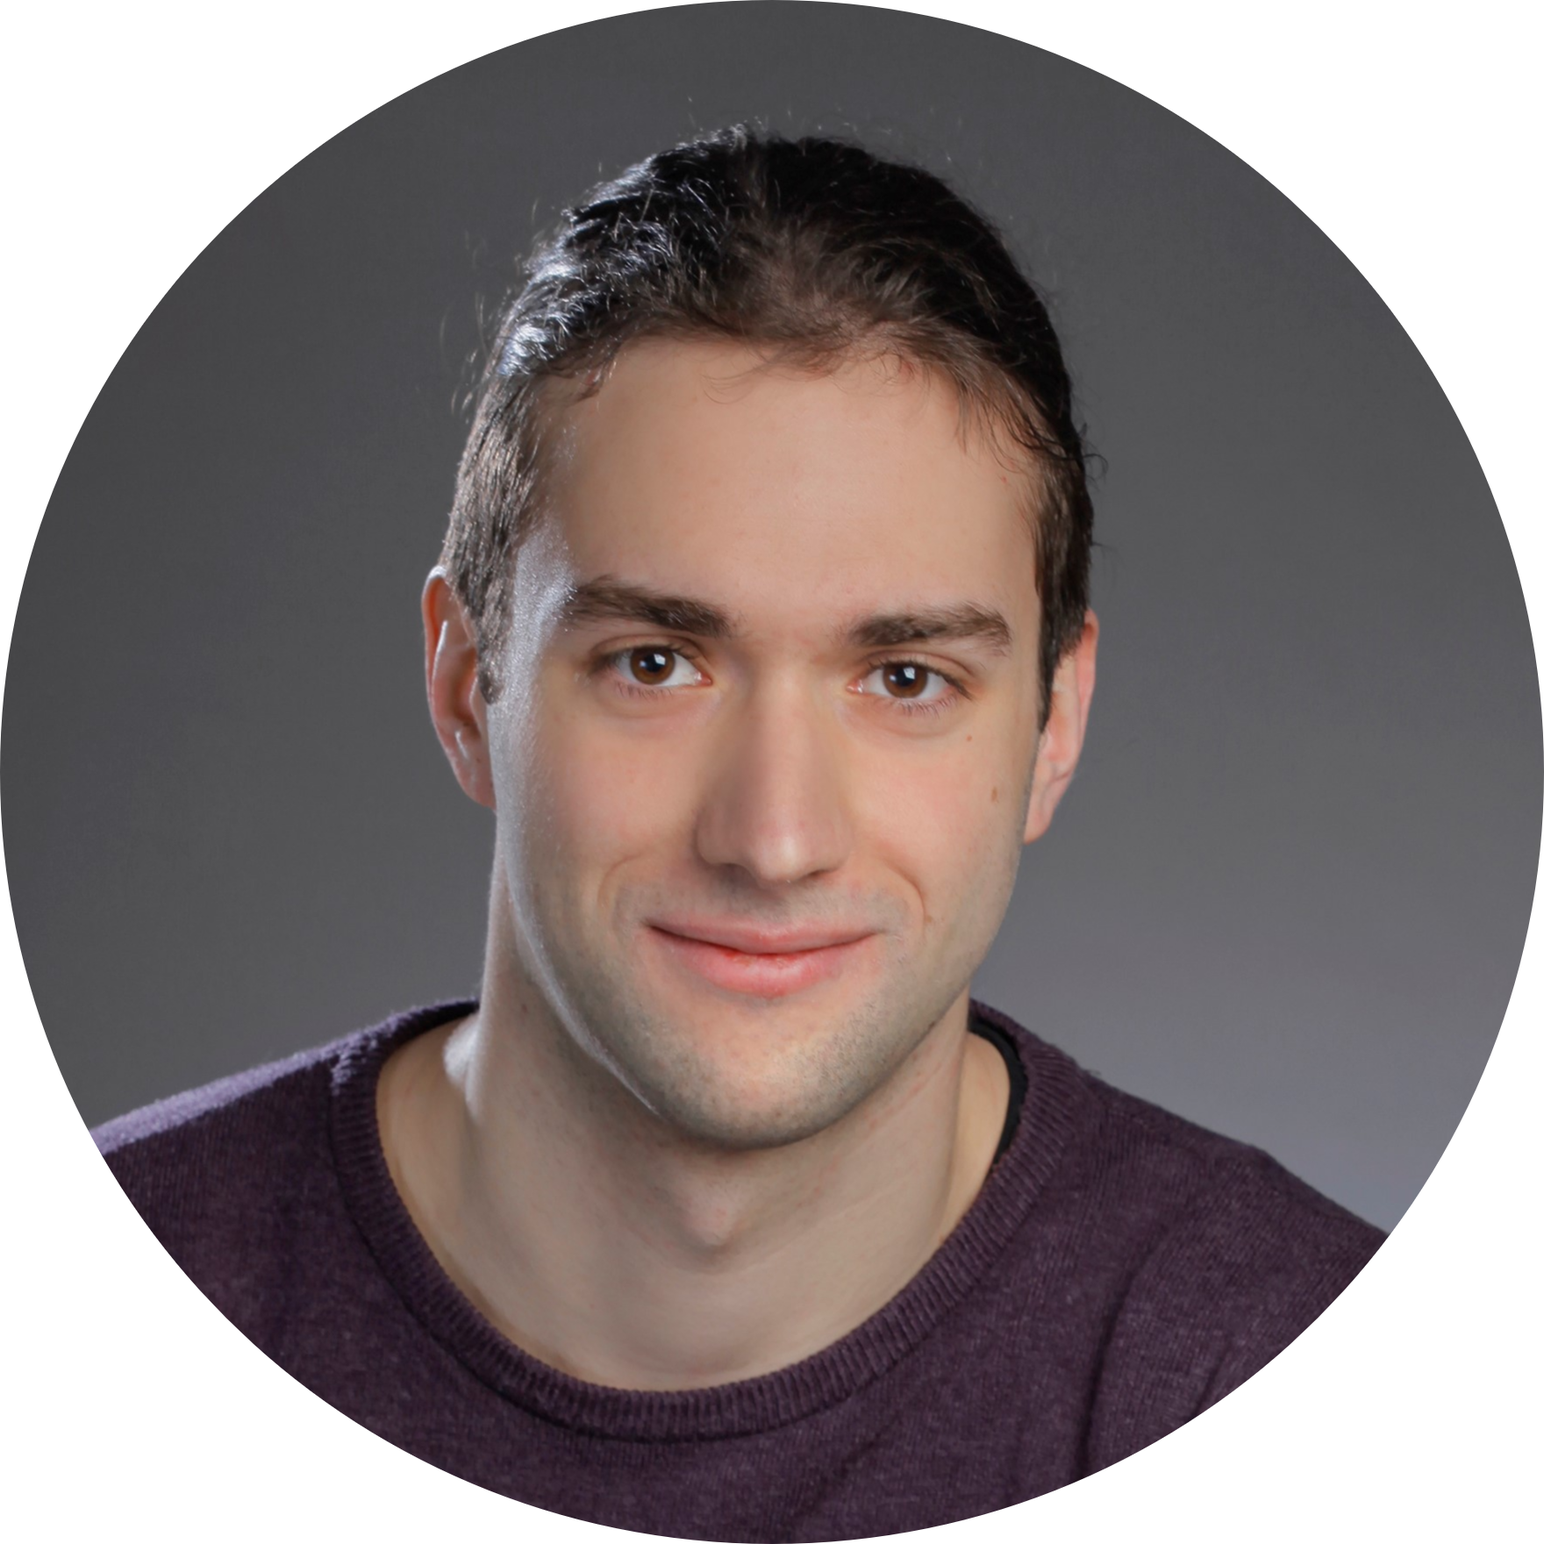
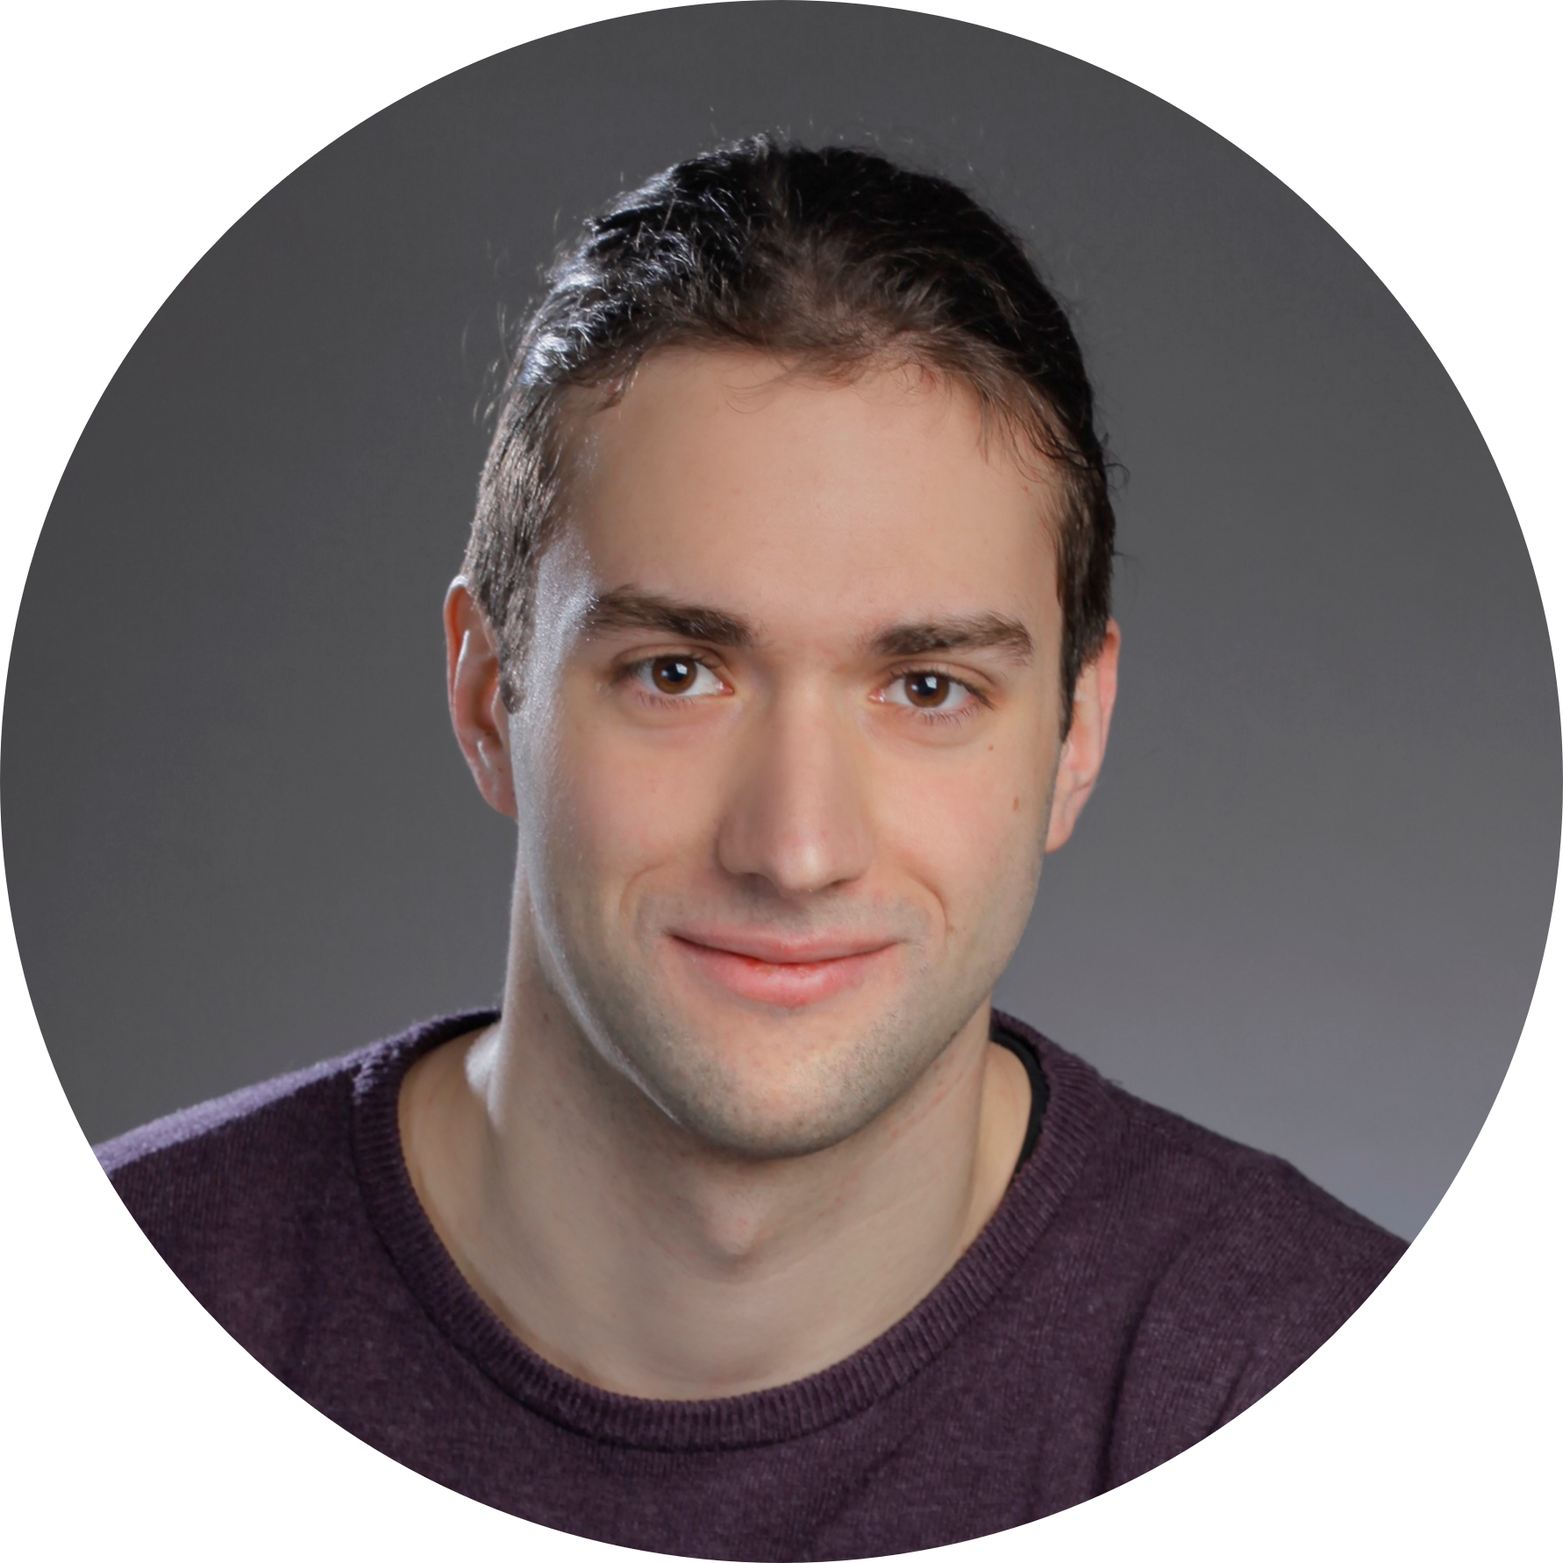
Profile image updated - better centered

diff --git a/build/static/js/main.0d141921.chunk.js b/build/static/js/main.0d141921.chunk.js
@@ -1,0 +1,2 @@
+(window.webpackJsonp=window.webpackJsonp||[]).push([[0],{13:function(e,a,t){e.exports=t.p+"static/media/profile.ff5088d0.png"},14:function(e,a,t){e.exports=t(22)},19:function(e,a,t){},22:function(e,a,t){"use strict";t.r(a);var n=t(0),i=t.n(n),r=t(12),s=t.n(r),l=(t(19),t(2)),c=t(3),o=t(5),m=t(4),d=t(13),u=t.n(d),p=function(e){Object(o.a)(t,e);var a=Object(m.a)(t);function t(e){var n;return Object(l.a)(this,t),(n=a.call(this,e)).sidebarData=e.sidebarData,n}return Object(c.a)(t,[{key:"render",value:function(){return i.a.createElement("nav",{className:"navbar navbar-expand-lg navbar-dark bg-primary fixed-top",id:"sideNav"},i.a.createElement("a",{className:"navbar-brand js-scroll-trigger",href:"#about"},i.a.createElement("span",{className:"d-block d-lg-none"},this.sidebarData.firstName," ",this.sidebarData.lastName),i.a.createElement("span",{className:"d-none d-lg-block"},i.a.createElement("img",{className:"img-fluid img-profile rounded-circle mx-auto mb-2",src:u.a,alt:""}))),i.a.createElement("button",{className:"navbar-toggler",type:"button","data-toggle":"collapse","data-target":"#navbarSupportedContent","aria-controls":"navbarSupportedContent","aria-expanded":"false","aria-label":"Toggle navigation"},i.a.createElement("span",{className:"navbar-toggler-icon"})),i.a.createElement("div",{className:"collapse navbar-collapse",id:"navbarSupportedContent"},i.a.createElement("ul",{className:"navbar-nav"},i.a.createElement("li",{className:"nav-item"},i.a.createElement("a",{className:"nav-link js-scroll-trigger",href:"#about"},"About")),i.a.createElement("li",{className:"nav-item"},i.a.createElement("a",{className:"nav-link js-scroll-trigger",href:"#experience"},"Experience")),i.a.createElement("li",{className:"nav-item"},i.a.createElement("a",{className:"nav-link js-scroll-trigger",href:"#education"},"Education")),i.a.createElement("li",{className:"nav-item"},i.a.createElement("a",{className:"nav-link js-scroll-trigger",href:"#skills"},"Skills")),i.a.createElement("li",{className:"nav-item"},i.a.createElement("a",{className:"nav-link js-scroll-trigger",href:"#interests"},"Interests")),i.a.createElement("li",{className:"nav-item"},i.a.createElement("a",{className:"nav-link js-scroll-trigger",href:"#publications"},"Publications")))))}}]),t}(n.Component),h=t(6),g=t(9),f=function(e){Object(o.a)(t,e);var a=Object(m.a)(t);function t(e){var n;return Object(l.a)(this,t),(n=a.call(this,e)).landingData=e.landingData,n}return Object(c.a)(t,[{key:"render",value:function(){return i.a.createElement("section",{className:"resume-section p-3 p-lg-5 d-flex align-items-center",id:"about"},i.a.createElement("div",{className:"w-100"},i.a.createElement("h1",{className:"mb-0"},this.landingData.firstName,i.a.createElement("span",null," "),i.a.createElement("span",{className:"text-primary"},this.landingData.lastName)),i.a.createElement("div",{className:"subheading mb-5"},this.landingData.phoneNumber," \xb7",i.a.createElement("a",{href:"mailto:hadlaczkybzs@gmail.com"},this.landingData.email)),i.a.createElement("p",{className:"lead mb-5"},this.landingData.bio),i.a.createElement("div",{className:"social-icons"},i.a.createElement("a",{href:this.landingData.linkedin},i.a.createElement(h.a,{icon:g.b})),i.a.createElement("a",{href:this.landingData.github},i.a.createElement(h.a,{icon:g.a})))))}}]),t}(n.Component),b=function(e){Object(o.a)(t,e);var a=Object(m.a)(t);function t(e){var n;return Object(l.a)(this,t),(n=a.call(this,e)).experience=e.experience,n}return Object(c.a)(t,[{key:"render",value:function(){return i.a.createElement("section",{className:"resume-section p-3 p-lg-5 d-flex align-items-center",id:"experience"},i.a.createElement("div",{className:"w-100"},i.a.createElement("h2",{className:"mb-5"},"Experience"),this.experience.map(function(e,a){return i.a.createElement("div",{key:a,className:"resume-item d-flex flex-column flex-md-row justify-content-between mb-5"},i.a.createElement("div",{className:"resume-content"},i.a.createElement("h3",{className:"mb-0"},e.position),i.a.createElement("div",{className:"subheading mb-3"},e.organization),i.a.createElement("p",null,e.aboutWork)),i.a.createElement("div",{className:"resume-date text-md-right"},i.a.createElement("span",{className:"text-primary"},e.fromDate," - ",e.toDate)))})))}}]),t}(n.Component),E=function(e){Object(o.a)(t,e);var a=Object(m.a)(t);function t(e){var n;return Object(l.a)(this,t),(n=a.call(this,e)).education=e.education,n}return Object(c.a)(t,[{key:"render",value:function(){return i.a.createElement("section",{className:"resume-section p-3 p-lg-5 d-flex align-items-center",id:"education"},i.a.createElement("div",{className:"w-100"},i.a.createElement("h2",{className:"mb-5"},"Education"),this.education.map(function(e,a){return i.a.createElement("div",{key:a,className:"resume-item d-flex flex-column flex-md-row justify-content-between mb-5"},i.a.createElement("div",{className:"resume-content"},i.a.createElement("h3",{className:"mb-0"},e.university),i.a.createElement("div",{className:"subheading mb-3"},e.degree),i.a.createElement("p",null,e.thesis),i.a.createElement("p",null,e.gpa)),i.a.createElement("div",{className:"resume-date text-md-right"},i.a.createElement("span",{className:"text-primary"},e.fromDate," - ",e.toDate)))})))}}]),t}(n.Component),v=t(8),N=function(e){Object(o.a)(t,e);var a=Object(m.a)(t);function t(e){var n;return Object(l.a)(this,t),(n=a.call(this,e)).programming=e.skills.programming,n.industry=e.skills.industry,n}return Object(c.a)(t,[{key:"render",value:function(){return i.a.createElement("section",{className:"resume-section p-3 p-lg-5 d-flex align-items-center",id:"skills"},i.a.createElement("div",{className:"w-100"},i.a.createElement("h2",{className:"mb-5"},"Skills"),i.a.createElement("div",{className:"subheading mb-3"},"Programming Languages & Tools"),i.a.createElement("div",{className:"row"},this.programming.map(function(e,a){return i.a.createElement("div",{key:a,className:"col-6"},i.a.createElement("p",{className:"list-item"},i.a.createElement(h.a,{icon:v.a,color:"green"}),i.a.createElement("span",{className:"ml-3"},e.name)))})),i.a.createElement("div",{className:"subheading mb-3"},"Industry knowledge"),i.a.createElement("div",{className:"row"},this.industry.map(function(e,a){return i.a.createElement("div",{key:a,className:"col-6"},i.a.createElement("p",{className:"list-item"},i.a.createElement(h.a,{icon:v.a,color:"green"}),i.a.createElement("span",{className:"ml-3"},e.name)))}))))}}]),t}(n.Component),y=function(e){Object(o.a)(t,e);var a=Object(m.a)(t);function t(e){var n;return Object(l.a)(this,t),(n=a.call(this,e)).interests=e.interests,n}return Object(c.a)(t,[{key:"render",value:function(){return i.a.createElement("section",{className:"resume-section p-3 p-lg-5 d-flex align-items-center",id:"interests"},i.a.createElement("div",{className:"w-100"},i.a.createElement("h2",{className:"mb-5"},"Interests"),i.a.createElement("p",null,this.interests.paragraphOne),i.a.createElement("p",{className:"mb-0"},this.interests.paragraphTwo)))}}]),t}(n.Component),k=function(e){Object(o.a)(t,e);var a=Object(m.a)(t);function t(e){var n;return Object(l.a)(this,t),(n=a.call(this,e)).publications=e.publications,n}return Object(c.a)(t,[{key:"render",value:function(){return i.a.createElement("section",{className:"resume-section p-3 p-lg-5 d-flex align-items-center",id:"publications"},i.a.createElement("div",{className:"w-100"},i.a.createElement("h2",{className:"mb-5"},"Publications & Conferences"),i.a.createElement("ul",{className:"fa-ul mb-0"},this.publications.map(function(e,a){return i.a.createElement("li",{key:a},i.a.createElement(h.a,{icon:v.b,color:"#64E986"}),i.a.createElement("span",{className:"ml-2"},i.a.createElement("a",{href:e.link},e.title)))}))))}}]),t}(n.Component),w=t(7),x=t(10),j=function(e){Object(o.a)(t,e);var a=Object(m.a)(t);function t(e){var n;return Object(l.a)(this,t),(n=a.call(this,e)).state={landingData:w.landing,experience:w.experience,education:w.education,skills:{programming:w.programming,industry:w.industry},interests:w.interests,publications:w.publications},x.a.initialize("UA-158818625-1"),x.a.pageview(window.location.pathname),n}return Object(c.a)(t,[{key:"render",value:function(){return i.a.createElement("div",{className:"App"},i.a.createElement(p,{sidebarData:this.state.landingData}),i.a.createElement("div",{className:"container-fluid p-0"},i.a.createElement(f,{landingData:this.state.landingData}),i.a.createElement("hr",{className:"m-0"}),i.a.createElement(b,{experience:this.state.experience}),i.a.createElement("hr",{className:"m-0"}),i.a.createElement(E,{education:this.state.education}),i.a.createElement("hr",{className:"m-0"}),i.a.createElement(N,{skills:this.state.skills}),i.a.createElement("hr",{className:"m-0"}),i.a.createElement(y,{interests:this.state.interests}),i.a.createElement("hr",{className:"m-0"}),i.a.createElement(k,{publications:this.state.publications})))}}]),t}(n.Component);Boolean("localhost"===window.location.hostname||"[::1]"===window.location.hostname||window.location.hostname.match(/^127(?:\.(?:25[0-5]|2[0-4][0-9]|[01]?[0-9][0-9]?)){3}$/));s.a.render(i.a.createElement(j,null),document.getElementById("root")),"serviceWorker"in navigator&&navigator.serviceWorker.ready.then(function(e){e.unregister()})},7:function(e){e.exports={landing:{firstName:"Bence",lastName:"Hadlaczky",phoneNumber:" ",bio:"I am an electrical engineer with 2+ years of experience as an R&D engineer in the field of machine learning and control system design at the Institute for Computer Science and Control. I also have expertise in programming of embedded systems, autonomous robots & vehicles, and computer vision.",email:" ",linkedin:"https://www.linkedin.com/in/bence-hadlaczky-0549a01a6",github:"https://github.com/hadlaczkyb"},experience:[{position:"Research and Development Engineer",organization:"SZTAKI - Institute for Computer Science and Control",aboutWork:"Estimation of the flexible states and dynamics of the wings of an unmanned aerial vehicle (UAV) utilizing model-based and machine learning-based techniques. The model-based approach uses extended Kalman-filtering. The machine learning-based approaches use recurrent neural networks (RNN) and convolutional neural networks (CNN). This research is part of the FLiPASED H2020 EU-funded project. Two conference articles are published discussing the results.",fromDate:"03.2021",toDate:"present"},{position:"Intern",organization:"SZTAKI - Institute for Computer Science and Control",aboutWork:"Reconfiguration and expansion of the IMU sensor system of an unmanned aerial vehicle (UAV) as a part of the FLiPASED H2020 EU-funded project. The sensors are located on the wings of the aircraft and are used for monitoring aeroelastic flutter. The IMU sensors use PIC microcontrollers that are connected to the ST microcontroller of the FCC. Data transmission is done via CAN bus.",fromDate:"07.2020",toDate:"09.2020"}],education:[{university:"Katholieke Universiteit Leuven",degree:"Electronics and Automation MSc (Erasmus scholarship)",thesis:" ",gpa:" ",fromDate:"02.2023",toDate:"07.2023"},{university:"Budapest University of Technology and Economics",degree:"Electrical Engineer MSc",thesis:"Thesis: Self-Driving Car with Deep Reinforcement Learning",gpa:"Graduated with Highest Honours (GPA: 4.92)",fromDate:"02.2021",toDate:"07.2023"},{university:"Budapest University of Technology and Economics",degree:"Electrical Engineer BSc",thesis:"Thesis: Control Design of ABS and ESP for Vehicles Using Soft-Computing Techniques",gpa:"Graduated with Highest Honours (GPA: 4.97)",fromDate:"09.2017",toDate:"01.2021"}],programming:[{name:"MATLAB & Simulink"},{name:"Python & PyTorch"},{name:"C & Embedded-C"},{name:"C++"},{name:"C#"},{name:"Java"},{name:"Javascript"},{name:"Kotlin (Android)"}],industry:[{name:"Soft Computing"},{name:"Machine Learning"},{name:"Deep Learning"},{name:"Reinforcement Learning"},{name:"Control Systems"},{name:"System State Estimation"},{name:"Embedded Systems"},{name:"Computer Vision"}],interests:{paragraphOne:"Despite being an electrical engineering student, one of my main area of interests is automobiles (especially from the 1980s to the mid 2000s). Because of this, I often spend time reading about the latest advancements of the automotive industry and the history and details of specific car models.",paragraphTwo:"In my free-time I regularly do workout. I enjoy listening to classical and rock music and play my acoustic guitar. I am also quite fond of movies and serials."},publications:[{title:"Wing shape estimation with Extended Kalman filtering and KalmanNet neural network of a flexible wing aircraft (L4DC-2023)",link:"https://proceedings.mlr.press/v211/hadlaczky23a.html"},{title:"Comparison of EKF and Neural Network based wing shape estimation of a flexible wing demonstrator (IFASD-2022)",link:"https://www.researchgate.net/publication/363633826_Comparison_of_EKF_and_Neural_Network_based_wing_shape_estimation_of_a_flexible_wing_demonstrator"}]}}},[[14,1,2]]]);
+//# sourceMappingURL=main.0d141921.chunk.js.map

diff --git a/build/index.html b/build/index.html
@@ -1,1 +1,1 @@
-<!doctype html><html lang="en"><head><meta charset="utf-8"/><link rel="shortcut icon" href="/favicon.ico"/><meta name="viewport" content="width=device-width,initial-scale=1"/><meta name="theme-color" content="#000000"/><link rel="manifest" href="/manifest.json"/><title>Portfolio</title><link href="/css/bootstrap.css" rel="stylesheet"><link href="https://fonts.googleapis.com/css?family=Saira+Extra+Condensed:500,700" rel="stylesheet"><link href="https://fonts.googleapis.com/css?family=Muli:400,400i,800,800i" rel="stylesheet"><link href="/css/resume.css" rel="stylesheet"><link href="/static/css/main.34de6062.chunk.css" rel="stylesheet"></head><body style="background-color:linen"><noscript>You need to enable JavaScript to run this app.</noscript><div id="root"></div><script src="/js/jquery.js"></script><script src="/js/bootstrap.bundle.js"></script><script src="/js/jquery.easing.js"></script><script src="/js/resume.js"></script><script>!function(l){function e(e){for(var r,t,n=e[0],o=e[1],u=e[2],f=0,i=[];f<n.length;f++)t=n[f],p[t]&&i.push(p[t][0]),p[t]=0;for(r in o)Object.prototype.hasOwnProperty.call(o,r)&&(l[r]=o[r]);for(s&&s(e);i.length;)i.shift()();return c.push.apply(c,u||[]),a()}function a(){for(var e,r=0;r<c.length;r++){for(var t=c[r],n=!0,o=1;o<t.length;o++){var u=t[o];0!==p[u]&&(n=!1)}n&&(c.splice(r--,1),e=f(f.s=t[0]))}return e}var t={},p={1:0},c=[];function f(e){if(t[e])return t[e].exports;var r=t[e]={i:e,l:!1,exports:{}};return l[e].call(r.exports,r,r.exports,f),r.l=!0,r.exports}f.m=l,f.c=t,f.d=function(e,r,t){f.o(e,r)||Object.defineProperty(e,r,{enumerable:!0,get:t})},f.r=function(e){"undefined"!=typeof Symbol&&Symbol.toStringTag&&Object.defineProperty(e,Symbol.toStringTag,{value:"Module"}),Object.defineProperty(e,"__esModule",{value:!0})},f.t=function(r,e){if(1&e&&(r=f(r)),8&e)return r;if(4&e&&"object"==typeof r&&r&&r.__esModule)return r;var t=Object.create(null);if(f.r(t),Object.defineProperty(t,"default",{enumerable:!0,value:r}),2&e&&"string"!=typeof r)for(var n in r)f.d(t,n,function(e){return r[e]}.bind(null,n));return t},f.n=function(e){var r=e&&e.__esModule?function(){return e.default}:function(){return e};return f.d(r,"a",r),r},f.o=function(e,r){return Object.prototype.hasOwnProperty.call(e,r)},f.p="/";var r=window.webpackJsonp=window.webpackJsonp||[],n=r.push.bind(r);r.push=e,r=r.slice();for(var o=0;o<r.length;o++)e(r[o]);var s=n;a()}([])</script><script src="/static/js/2.a08838e2.chunk.js"></script><script src="/static/js/main.c3a464bf.chunk.js"></script></body></html>
+<!doctype html><html lang="en"><head><meta charset="utf-8"/><link rel="shortcut icon" href="/favicon.ico"/><meta name="viewport" content="width=device-width,initial-scale=1"/><meta name="theme-color" content="#000000"/><link rel="manifest" href="/manifest.json"/><title>Portfolio</title><link href="/css/bootstrap.css" rel="stylesheet"><link href="https://fonts.googleapis.com/css?family=Saira+Extra+Condensed:500,700" rel="stylesheet"><link href="https://fonts.googleapis.com/css?family=Muli:400,400i,800,800i" rel="stylesheet"><link href="/css/resume.css" rel="stylesheet"><link href="/static/css/main.34de6062.chunk.css" rel="stylesheet"></head><body style="background-color:linen"><noscript>You need to enable JavaScript to run this app.</noscript><div id="root"></div><script src="/js/jquery.js"></script><script src="/js/bootstrap.bundle.js"></script><script src="/js/jquery.easing.js"></script><script src="/js/resume.js"></script><script>!function(l){function e(e){for(var r,t,n=e[0],o=e[1],u=e[2],f=0,i=[];f<n.length;f++)t=n[f],p[t]&&i.push(p[t][0]),p[t]=0;for(r in o)Object.prototype.hasOwnProperty.call(o,r)&&(l[r]=o[r]);for(s&&s(e);i.length;)i.shift()();return c.push.apply(c,u||[]),a()}function a(){for(var e,r=0;r<c.length;r++){for(var t=c[r],n=!0,o=1;o<t.length;o++){var u=t[o];0!==p[u]&&(n=!1)}n&&(c.splice(r--,1),e=f(f.s=t[0]))}return e}var t={},p={1:0},c=[];function f(e){if(t[e])return t[e].exports;var r=t[e]={i:e,l:!1,exports:{}};return l[e].call(r.exports,r,r.exports,f),r.l=!0,r.exports}f.m=l,f.c=t,f.d=function(e,r,t){f.o(e,r)||Object.defineProperty(e,r,{enumerable:!0,get:t})},f.r=function(e){"undefined"!=typeof Symbol&&Symbol.toStringTag&&Object.defineProperty(e,Symbol.toStringTag,{value:"Module"}),Object.defineProperty(e,"__esModule",{value:!0})},f.t=function(r,e){if(1&e&&(r=f(r)),8&e)return r;if(4&e&&"object"==typeof r&&r&&r.__esModule)return r;var t=Object.create(null);if(f.r(t),Object.defineProperty(t,"default",{enumerable:!0,value:r}),2&e&&"string"!=typeof r)for(var n in r)f.d(t,n,function(e){return r[e]}.bind(null,n));return t},f.n=function(e){var r=e&&e.__esModule?function(){return e.default}:function(){return e};return f.d(r,"a",r),r},f.o=function(e,r){return Object.prototype.hasOwnProperty.call(e,r)},f.p="/";var r=window.webpackJsonp=window.webpackJsonp||[],n=r.push.bind(r);r.push=e,r=r.slice();for(var o=0;o<r.length;o++)e(r[o]);var s=n;a()}([])</script><script src="/static/js/2.a08838e2.chunk.js"></script><script src="/static/js/main.0d141921.chunk.js"></script></body></html>

diff --git a/build/precache-manifest.aaa8861f75682582aee08f5965799187.js b/build/precache-manifest.aaa8861f75682582aee08f5965799187.js
@@ -1,10 +1,10 @@
 self.__precacheManifest = (self.__precacheManifest || []).concat([
   {
-    "revision": "90b253ebae5ab97b7e7d6785316a1b05",
+    "revision": "ee3bba31b5dfe0d4d25f73835b24ae3f",
     "url": "/index.html"
   },
   {
-    "revision": "ac48cff023b81763d97c",
+    "revision": "c8a82e6c41f0c6c38c8d",
     "url": "/static/css/main.34de6062.chunk.css"
   },
   {
@@ -12,15 +12,15 @@ self.__precacheManifest = (self.__precacheManifest || []).concat([
     "url": "/static/js/2.a08838e2.chunk.js"
   },
   {
-    "revision": "ac48cff023b81763d97c",
-    "url": "/static/js/main.c3a464bf.chunk.js"
+    "revision": "c8a82e6c41f0c6c38c8d",
+    "url": "/static/js/main.0d141921.chunk.js"
   },
   {
     "revision": "42ac5946195a7306e2a5",
     "url": "/static/js/runtime~main.a8a9905a.js"
   },
   {
-    "revision": "699182b69d15007bd4850de1c649403a",
-    "url": "/static/media/profile.699182b6.png"
+    "revision": "ff5088d040889bbc564c968a19e191b9",
+    "url": "/static/media/profile.ff5088d0.png"
   }
 ]);

diff --git a/build/service-worker.js b/build/service-worker.js
@@ -14,7 +14,7 @@
 importScripts("https://storage.googleapis.com/workbox-cdn/releases/4.3.1/workbox-sw.js");
 
 importScripts(
-  "/precache-manifest.96aa646611a435ad1b61fb0ca84f03b0.js"
+  "/precache-manifest.aaa8861f75682582aee08f5965799187.js"
 );
 
 self.addEventListener('message', (event) => {
